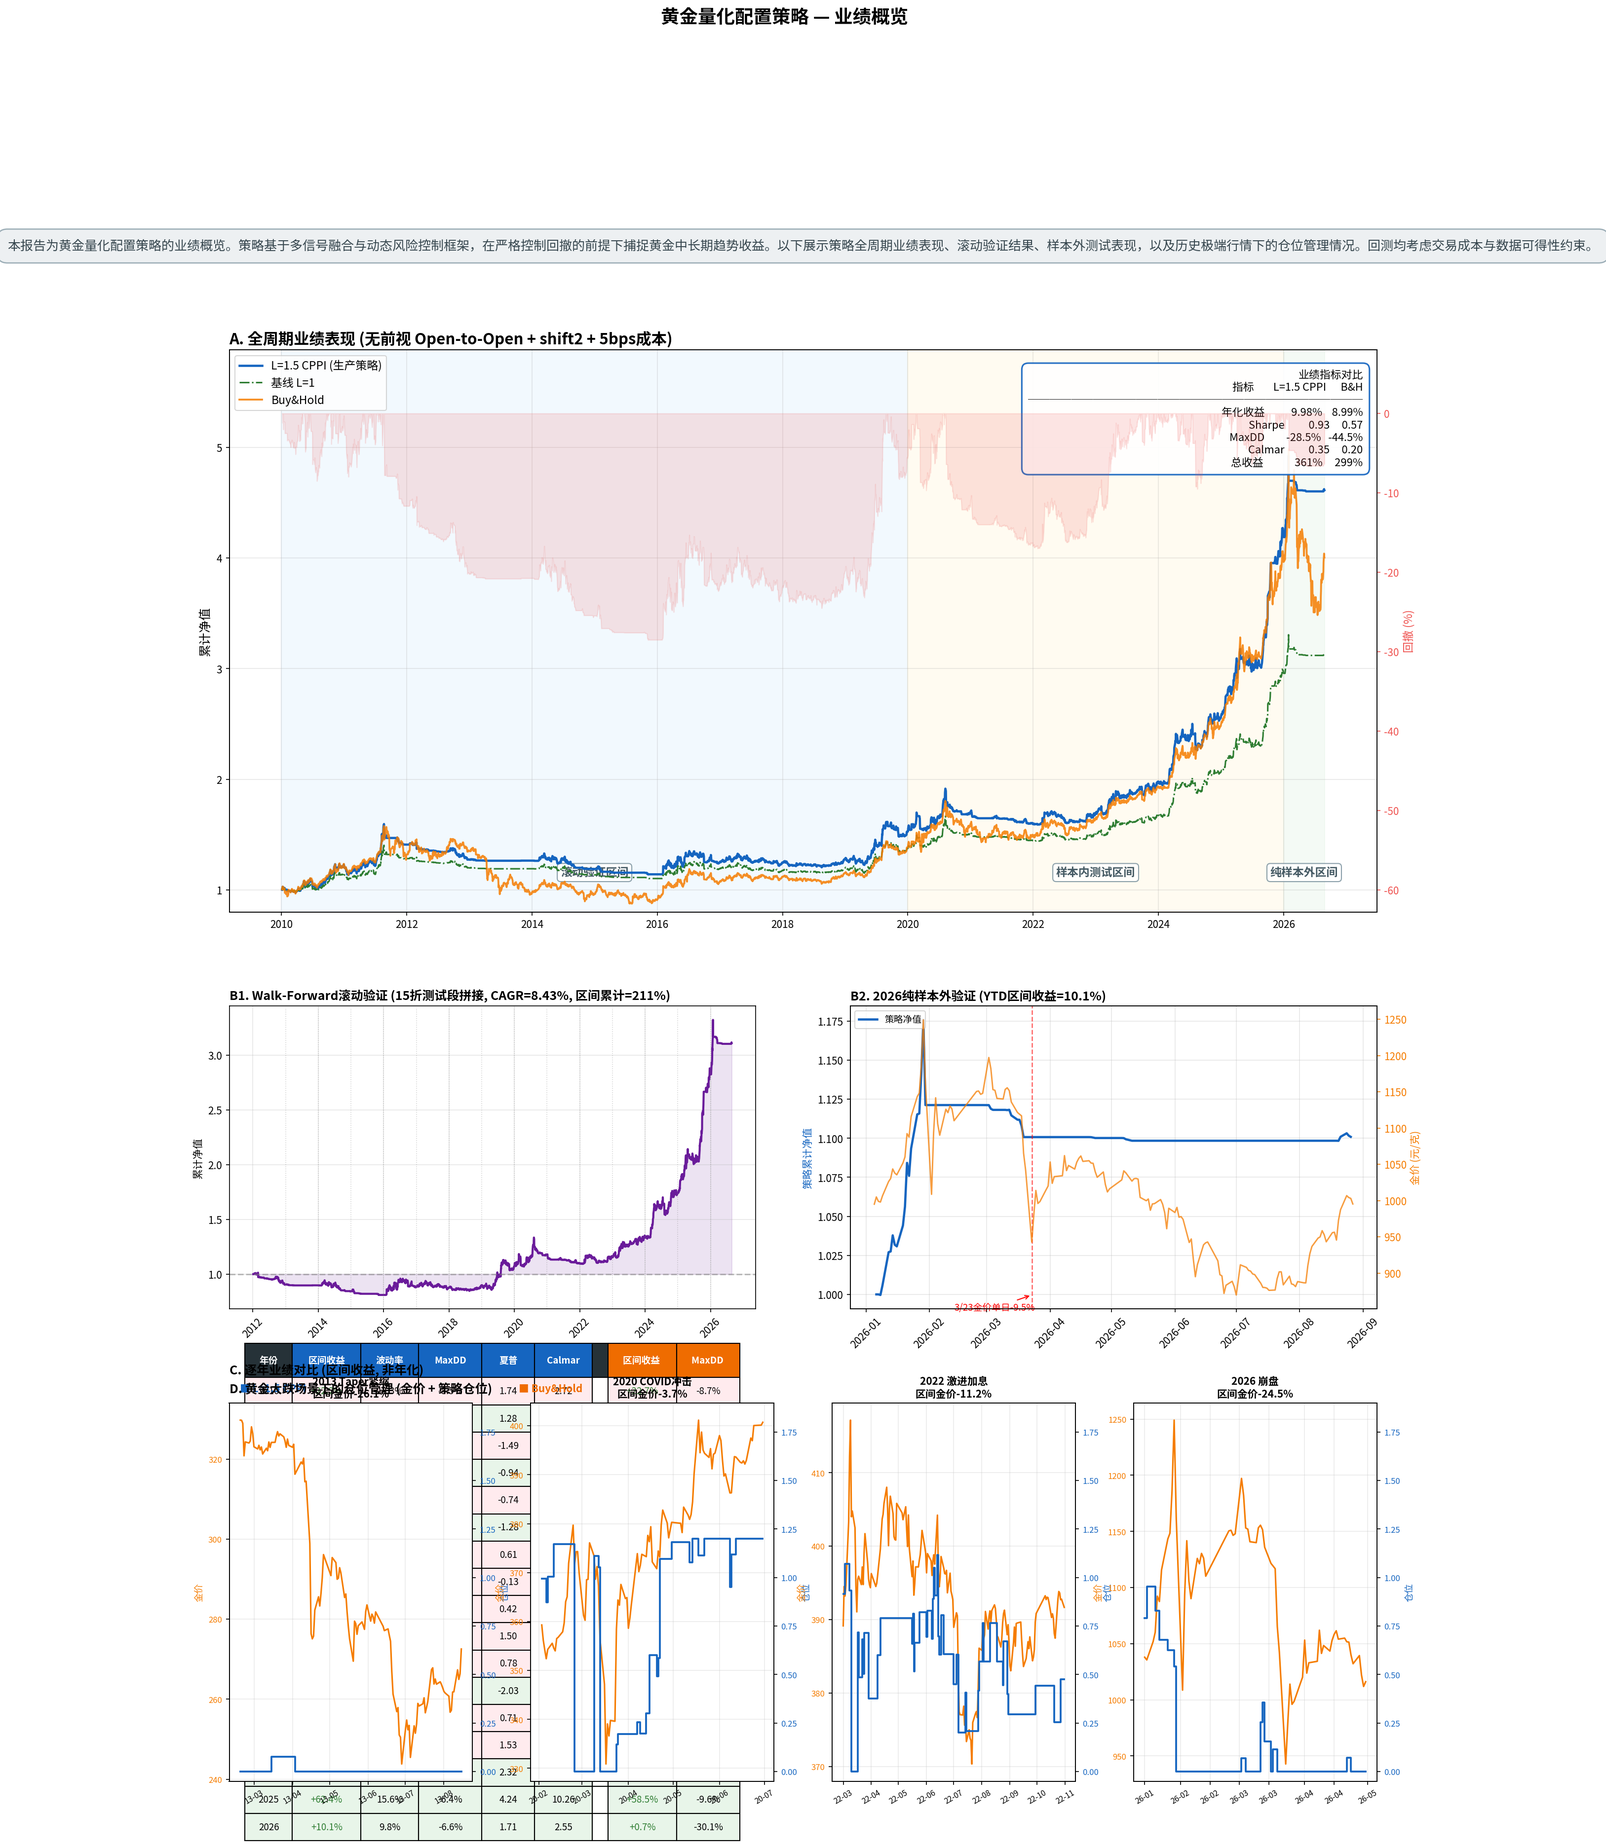
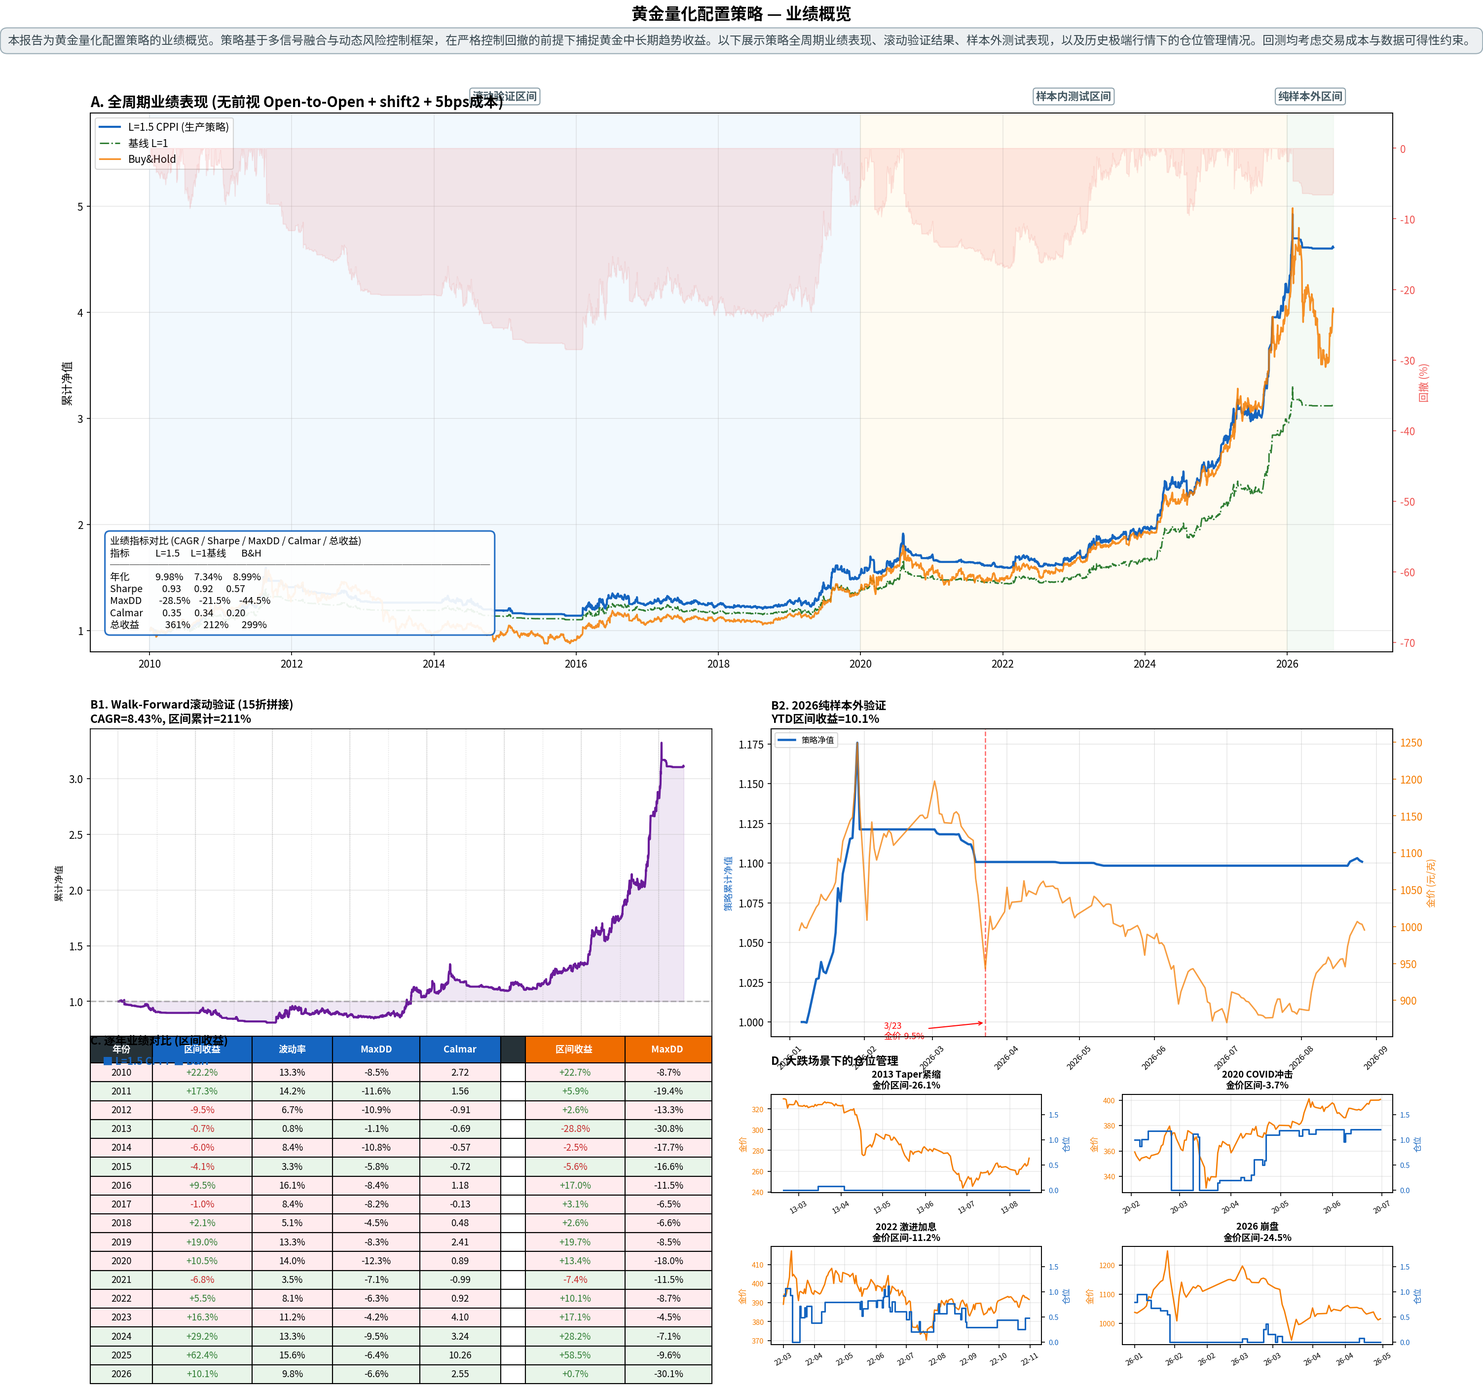
fix(gold): 重构综合介绍图布局 — 避免重叠 + 指标框下移 + 加入L=1基线指标
布局优化:
- 改用fig.add_axes显式定位, 避免gridspec重叠
- A图指标框下移至底部 (左下角), 不挡曲线峰值
- 加入L=1基线指标到对比框 (三列: L=1.5/L=1基线/B&H)
- D场景2x2用独立GridSpec避免嵌套错误
- 减少标题高度, 优化区块间距

文件: reports/gold/gold_strategy_overview.png, plot_gold_overview.py

diff --git a/scripts/cmf/plot_gold_overview.py b/scripts/cmf/plot_gold_overview.py
@@ -1,12 +1,12 @@
-"""scripts/cmf/plot_gold_overview.py — 黄金策略综合介绍图.
+"""scripts/cmf/plot_gold_overview.py — 黄金策略综合介绍图 (重构布局).
 
-布局:
-  顶部: 笼统文字说明 (不涉及策略细节)
-  A. 全周期净值 + 业绩指标框 + 测试区间底色切分
-  B1. Walk-Forward滚动验证 | B2. 2026纯OOS
-  C. 逐年区间收益对比表 | D. 大跌场景仓位 2×2
+布局 (简化、避免重叠):
+  H. 顶部说明文字 (横跨整行)
+  A. 全周期净值 + 业绩指标框 (下移, 不挡曲线)
+  B1+B2 水平排 (左WF / 右2026 OOS)
+  C. 逐年对比表 (窄, 让位给D)
+  D. 大跌场景2x2 (加大)
 
-数据来自缓存: reports/gold/overview_data.pkl
 输出: reports/gold/gold_strategy_overview.png
 """
 from __future__ import annotations
@@ -22,18 +22,17 @@ import matplotlib
 matplotlib.use("Agg")
 import matplotlib.pyplot as plt
 import matplotlib.dates as mdates
-from matplotlib.gridspec import GridSpec
+from matplotlib.gridspec import GridSpec, GridSpecFromSubplotSpec
 
 sys.path.insert(0, '/home/ll/Public/QuantNodes')
 
 CACHE = "reports/gold/overview_data.pkl"
 OUT = "reports/gold/gold_strategy_overview.png"
 
-# 区间切分定义 (A图底色)
 SEGMENTS = [
-    ("2010-01-01", "2019-12-31", "滚动验证区间", "#E3F2FD"),   # 浅蓝
-    ("2020-01-01", "2025-12-31", "样本内测试区间", "#FFF8E1"),  # 浅黄
-    ("2026-01-01", "2026-08-27", "纯样本外区间", "#E8F5E9"),    # 浅绿
+    ("2010-01-01", "2019-12-31", "滚动验证区间", "#E3F2FD"),
+    ("2020-01-01", "2025-12-31", "样本内测试区间", "#FFF8E1"),
+    ("2026-01-01", "2026-08-27", "纯样本外区间", "#E8F5E9"),
 ]
 
 HEADER_TEXT = (
@@ -71,177 +70,174 @@ def main():
     nav_bh = D["nav_bh"]
     m15 = D["metrics_15"]
     mbh = D["metrics_bh"]
+    mb = D["metrics_base"]
     ydf = D["yearly"]
 
-    fig = plt.figure(figsize=(20, 27))
-    gs = GridSpec(4, 2, figure=fig, height_ratios=[0.06, 2.6, 1.4, 1.75],
-                  hspace=0.30, wspace=0.18)
+    # 总体布局: 4行
+    #   row0: 顶部说明 (小高度)
+    #   row1: A图全周期净值 (主图, 大高度)
+    #   row2: B1 + B2 (左右)
+    #   row3: C表 + D场景 (左右, 高)
+    fig = plt.figure(figsize=(20, 26))
 
-    # ================= 顶部说明文字 =================
-    axH = fig.add_subplot(gs[0, :])
+    # ===== 顶部说明 =====
+    axH = fig.add_axes([0.06, 0.965, 0.88, 0.025])
     axH.axis('off')
-    axH.text(0.5, 0.75, HEADER_TEXT, transform=axH.transAxes,
-             fontsize=12.5, ha='center', va='center', wrap=True,
-             color='#37474F', linespacing=1.8,
-             bbox=dict(boxstyle='round,pad=0.8', facecolor='#ECEFF1',
-                       edgecolor='#90A4AE', alpha=0.9, linewidth=1.2))
+    axH.text(0.5, 0.5, HEADER_TEXT, transform=axH.transAxes,
+             fontsize=11.5, ha='center', va='center', wrap=True,
+             color='#37474F', linespacing=1.5,
+             bbox=dict(boxstyle='round,pad=0.6', facecolor='#ECEFF1',
+                       edgecolor='#90A4AE', alpha=0.9, linewidth=1))
 
-    # ================= A. 全周期净值 + 区间切分 =================
-    axA = fig.add_subplot(gs[1, :])
+    # ===== A. 全周期净值 =====
+    axA = fig.add_axes([0.06, 0.66, 0.88, 0.28])
+    axA.set_title('A. 全周期业绩表现 (无前视 Open-to-Open + shift2 + 5bps成本)',
+                 fontsize=14, fontweight='bold', loc='left')
 
-    # 区间底色
     for s, e, label, color in SEGMENTS:
         s_ts, e_ts = pd.Timestamp(s), pd.Timestamp(e)
         axA.axvspan(s_ts, e_ts, alpha=0.45, color=color, zorder=0)
         mid = s_ts + (e_ts - s_ts) / 2
-        axA.text(mid, 0.06, label, transform=axA.get_xaxis_transform(),
-                 fontsize=11, fontweight='bold', ha='center', va='bottom',
+        axA.text(mid, 1.02, label, transform=axA.get_xaxis_transform(),
+                 fontsize=10.5, fontweight='bold', ha='center', va='bottom',
                  color='#455A64',
-                 bbox=dict(boxstyle='round,pad=0.3', facecolor='white',
+                 bbox=dict(boxstyle='round,pad=0.25', facecolor='white',
                            edgecolor='#78909C', alpha=0.85, linewidth=1))
 
     axA.plot(nav_15.index, nav_15.values, label='L=1.5 CPPI (生产策略)',
-             linewidth=2.2, color='#1565C0', zorder=3)
+             linewidth=2.0, color='#1565C0', zorder=3)
     axA.plot(nav_base.index, nav_base.values, label='基线 L=1',
-             linewidth=1.5, color='#2E7D32', linestyle='-.', zorder=3)
+             linewidth=1.4, color='#2E7D32', linestyle='-.', zorder=3)
     axA.plot(nav_bh.index, nav_bh.values, label='Buy&Hold',
-             linewidth=1.8, color='#F57C00', alpha=0.85, zorder=3)
+             linewidth=1.6, color='#F57C00', alpha=0.85, zorder=3)
 
-    # 回撤阴影
+    # 指标框下移到底部, 不挡曲线峰值
+    box = "\n".join([
+        "业绩指标对比 (CAGR / Sharpe / MaxDD / Calmar / 总收益)",
+        f"{'指标':<9}{'L=1.5':>10}{'L=1基线':>10}{'B&H':>10}",
+        "─" * 39,
+        f"{'年化':<9}{pct(m15['cagr'], 2):>10}{pct(mb['cagr'], 2):>10}{pct(mbh['cagr'], 2):>10}",
+        f"{'Sharpe':<9}{m15['sharpe']:>10.2f}{mb['sharpe']:>10.2f}{mbh['sharpe']:>10.2f}",
+        f"{'MaxDD':<9}{pct(m15['mdd'], 1):>10}{pct(mb['mdd'], 1):>10}{pct(mbh['mdd'], 1):>10}",
+        f"{'Calmar':<9}{m15['calmar']:>10.2f}{mb['calmar']:>10.2f}{mbh['calmar']:>10.2f}",
+        f"{'总收益':<9}{pct(m15['total'], 0):>10}{pct(mb['total'], 0):>10}{pct(mbh['total'], 0):>10}",
+    ])
+    axA.text(0.015, 0.04, box, transform=axA.transAxes, fontsize=9.5,
+             verticalalignment='bottom', horizontalalignment='left',
+             bbox=dict(boxstyle='round,pad=0.5', facecolor='white',
+                       edgecolor='#1565C0', alpha=0.92, linewidth=1.5))
+
     ax1b = axA.twinx()
     dd15 = nav_15 / nav_15.cummax() - 1
-    ax1b.fill_between(dd15.index, dd15.values * 100, 0, alpha=0.15, color='#EF5350', zorder=1)
-    ax1b.set_ylabel('回撤 (%)', color='#EF5350', fontsize=11)
-    ax1b.set_ylim(dd15.min() * 100 * 2.2, 8)
+    ax1b.fill_between(dd15.index, dd15.values * 100, 0, alpha=0.12, color='#EF5350', zorder=1)
+    ax1b.set_ylabel('回撤 (%)', color='#EF5350', fontsize=10)
+    ax1b.set_ylim(dd15.min() * 100 * 2.5, 5)
     ax1b.tick_params(axis='y', colors='#EF5350')
-
-    axA.set_ylabel('累计净值', fontsize=12)
-    axA.set_title('A. 全周期业绩表现 (无前视 Open-to-Open + shift2 + 5bps成本)',
-                  fontsize=15, fontweight='bold', loc='left')
-    axA.legend(loc='upper left', fontsize=11)
+    axA.set_ylabel('累计净值', fontsize=11)
+    axA.legend(loc='upper left', fontsize=10)
     axA.grid(True, alpha=0.3)
     axA.set_ylim(0.8, max(nav_15.max(), nav_bh.max()) * 1.18)
 
-    # 指标标注框
-    box = ("\n".join([
-        "业绩指标对比",
-        f"{'指标':<9}{'L=1.5 CPPI':>11}{'B&H':>9}",
-        "─" * 31,
-        f"{'年化收益':<9}{pct(m15['cagr'], 2):>11}{pct(mbh['cagr'], 2):>9}",
-        f"{'Sharpe':<9}{m15['sharpe']:>11.2f}{mbh['sharpe']:>9.2f}",
-        f"{'MaxDD':<9}{pct(m15['mdd'], 1):>11}{pct(mbh['mdd'], 1):>9}",
-        f"{'Calmar':<9}{m15['calmar']:>11.2f}{mbh['calmar']:>9.2f}",
-        f"{'总收益':<9}{pct(m15['total'], 0):>11}{pct(mbh['total'], 0):>9}",
-    ]))
-    axA.text(0.988, 0.965, box, transform=axA.transAxes, fontsize=10.5,
-             verticalalignment='top', horizontalalignment='right',
-             bbox=dict(boxstyle='round,pad=0.6', facecolor='white',
-                       edgecolor='#1565C0', alpha=0.92, linewidth=1.5))
+    # ===== B1 (左) + B2 (右) =====
+    axB1 = fig.add_axes([0.06, 0.46, 0.42, 0.16])
+    axB2 = fig.add_axes([0.52, 0.46, 0.42, 0.16])
 
-    # ================= B1. Walk-Forward =================
-    axB1 = fig.add_subplot(gs[2, 0])
+    # B1: WF拼接
     wf = D["wf_nav"]
     axB1.plot(wf.index, wf.values, linewidth=2, color='#6A1B9A')
-    axB1.fill_between(wf.index, 1.0, wf.values, alpha=0.12, color='#6A1B9A')
+    axB1.fill_between(wf.index, 1.0, wf.values, alpha=0.10, color='#6A1B9A')
     axB1.axhline(y=1.0, color='gray', linestyle='--', alpha=0.5)
     for year in range(2013, 2027):
         try:
-            boundary = pd.Timestamp(f"{year}-01-01")
-            if wf.index[0] <= boundary <= wf.index[-1]:
-                axB1.axvline(x=boundary, color='gray', linestyle=':', alpha=0.35, linewidth=0.8)
+            b = pd.Timestamp(f"{year}-01-01")
+            if wf.index[0] <= b <= wf.index[-1]:
+                axB1.axvline(x=b, color='gray', linestyle=':', alpha=0.3, linewidth=0.7)
         except Exception:
             pass
     wf_ret = wf.iloc[-1] / wf.iloc[0] - 1
     n_y = len(wf) / 252
     wf_cagr = (wf.iloc[-1]) ** (1 / n_y) - 1
-    axB1.set_title(f'B1. Walk-Forward滚动验证 (15折测试段拼接, CAGR={pct(wf_cagr, 2)}, 区间累计={pct(wf_ret, 0)})',
-                   fontsize=12, fontweight='bold', loc='left')
-    axB1.set_ylabel('累计净值')
+    axB1.set_title(f'B1. Walk-Forward滚动验证 (15折拼接)\nCAGR={pct(wf_cagr, 2)}, 区间累计={pct(wf_ret, 0)}',
+                   fontsize=11, fontweight='bold', loc='left')
+    axB1.set_ylabel('累计净值', fontsize=9)
     axB1.grid(True, alpha=0.3)
     axB1.xaxis.set_major_formatter(mdates.DateFormatter('%Y'))
     axB1.xaxis.set_major_locator(mdates.YearLocator(2))
     for lbl in axB1.get_xticklabels():
-        lbl.set_rotation(45)
+        lbl.set_rotation(45); lbl.set_fontsize(8)
 
-    # ================= B2. 2026纯OOS =================
-    axB2 = fig.add_subplot(gs[2, 1])
+    # B2: 2026纯OOS
     nav26 = D["nav26"]
     c26 = D["close26"]
     axB2.plot(nav26.index, nav26.values, color='#1565C0', linewidth=2.2, label='策略净值')
     ax2b = axB2.twinx()
-    ax2b.plot(c26.index, c26.values, color='#F57C00', linewidth=1.4, alpha=0.75, label='金价(右轴)')
-    ax2b.set_ylabel('金价 (元/克)', color='#F57C00', fontsize=10)
+    ax2b.plot(c26.index, c26.values, color='#F57C00', linewidth=1.4, alpha=0.75, label='金价')
+    ax2b.set_ylabel('金价 (元/克)', color='#F57C00', fontsize=9)
     ax2b.tick_params(axis='y', colors='#F57C00')
     oos_ret = nav26.iloc[-1] / nav26.iloc[0] - 1
     crash_day = pd.Timestamp("2026-03-23")
     if crash_day in c26.index:
         axB2.axvline(x=crash_day, color='red', linestyle='--', alpha=0.6, linewidth=1.2)
-        axB2.annotate('3/23金价单日-9.5%', xy=(crash_day, nav26.min()),
-                      xytext=(crash_day - pd.Timedelta(days=38), nav26.min() * 0.99),
-                      fontsize=9, color='red',
+        axB2.annotate('3/23\n金价-9.5%', xy=(crash_day, nav26.min()),
+                      xytext=(crash_day - pd.Timedelta(days=42), nav26.min() * 0.99),
+                      fontsize=8.5, color='red',
                       arrowprops=dict(arrowstyle='->', color='red', lw=1))
-    axB2.set_title(f'B2. 2026纯样本外验证 (YTD区间收益={pct(oos_ret, 1)})',
-                   fontsize=12, fontweight='bold', loc='left')
-    axB2.set_ylabel('策略累计净值', color='#1565C0', fontsize=10)
-    axB2.legend(loc='upper left', fontsize=9)
+    axB2.set_title(f'B2. 2026纯样本外验证\nYTD区间收益={pct(oos_ret, 1)}',
+                   fontsize=11, fontweight='bold', loc='left')
+    axB2.set_ylabel('策略累计净值', color='#1565C0', fontsize=9)
+    axB2.legend(loc='upper left', fontsize=8)
     axB2.grid(True, alpha=0.3)
     axB2.xaxis.set_major_formatter(mdates.DateFormatter('%Y-%m'))
     for lbl in axB2.get_xticklabels():
-        lbl.set_rotation(45)
+        lbl.set_rotation(45); lbl.set_fontsize(8)
 
-    # ================= C. 逐年区间收益对比表 (美化) =================
-    axC = fig.add_subplot(gs[3, 0])
+    # ===== C. 逐年对比表 =====
+    axC = fig.add_axes([0.06, 0.30, 0.42, 0.14])
     axC.axis('off')
-
-    cols = ['年份', '区间收益', '波动率', 'MaxDD', '夏普', 'Calmar', '',
+    cols = ['年份', '区间收益', '波动率', 'MaxDD', 'Calmar', '',
             '区间收益 ', 'MaxDD ']
     cell_rows = []
     row_colors = []
     for year, r in ydf.iterrows():
-        l15_ret = r['L15_ret']
-        bh_ret = r['BH_ret']
+        lr = r['L15_ret']; br = r['BH_ret']
         cell_rows.append([
             str(year),
-            pct(l15_ret, 1, sign=True) if pd.notna(l15_ret) else '-',
+            pct(lr, 1, sign=True) if pd.notna(lr) else '-',
             pct(r['L15_vol'], 1) if pd.notna(r['L15_vol']) else '-',
             pct(r['L15_mdd'], 1) if pd.notna(r['L15_mdd']) else '-',
-            f"{r['L15_sharpe']:.2f}" if pd.notna(r['L15_sharpe']) else '-',
             f"{r['L15_calmar']:.2f}" if pd.notna(r['L15_calmar']) else '-',
             '',
-            pct(bh_ret, 1, sign=True) if pd.notna(bh_ret) else '-',
+            pct(br, 1, sign=True) if pd.notna(br) else '-',
             pct(r['BH_mdd'], 1) if pd.notna(r['BH_mdd']) else '-',
         ])
-        if pd.notna(l15_ret) and pd.notna(bh_ret):
-            row_colors.append('#E8F5E9' if l15_ret >= bh_ret else '#FFEBEE')
+        if pd.notna(lr) and pd.notna(br):
+            row_colors.append('#E8F5E9' if lr >= br else '#FFEBEE')
         else:
             row_colors.append('white')
 
     tbl = axC.table(cellText=cell_rows, colLabels=cols,
                     cellLoc='center', loc='center',
-                    colWidths=[0.09, 0.13, 0.11, 0.12, 0.10, 0.11, 0.03, 0.13, 0.12])
+                    colWidths=[0.10, 0.16, 0.13, 0.14, 0.13, 0.04, 0.16, 0.14])
     tbl.auto_set_font_size(False)
     tbl.set_fontsize(9)
-    tbl.scale(1, 1.08)
-    # 表头
+    tbl.scale(1, 1.06)
     for j in range(len(cols)):
         cell = tbl[0, j]
         cell.set_facecolor('#263238')
         cell.set_text_props(color='white', fontweight='bold', fontsize=9)
-        cell.set_height(0.09)
-    # 左组表头蓝, 右组橙
-    for j in [1, 2, 3, 4, 5]:
+        cell.set_height(0.10)
+    for j in [1, 2, 3, 4]:
         tbl[0, j].set_facecolor('#1565C0')
-    for j in [7, 8]:
+    for j in [6, 7]:
         tbl[0, j].set_facecolor('#EF6C00')
-    # 数据行: 斑马纹+胜负色, 收益正绿负红字
     for i, r in enumerate(cell_rows, start=1):
         base = row_colors[i-1]
         for j in range(len(cols)):
             cell = tbl[i, j]
-            cell.set_facecolor(base if j != 6 else 'white')
-            cell.set_height(0.072)
-            if j in (1, 7) and i <= len(cell_rows):
-                txt = r[j] if j < len(r) else ''
+            cell.set_facecolor(base if j != 5 else 'white')
+            cell.set_height(0.07)
+            if j in (1, 6) and i <= len(cell_rows):
+                txt = cell_rows[i-1][j]
                 if txt and txt != '-' and '%' in txt:
                     if '+' in txt:
                         cell.set_text_props(color='#2E7D32', fontsize=9)
@@ -251,46 +247,44 @@ def main():
                     cell.set_text_props(fontsize=9)
             else:
                 cell.set_text_props(fontsize=9)
-    # 区分线
-    axC.text(0.02, 1.03, '■ L=1.5 CPPI', transform=axC.transAxes,
-             fontsize=10, color='#1565C0', fontweight='bold')
-    axC.text(0.55, 1.03, '■ Buy&Hold', transform=axC.transAxes,
-             fontsize=10, color='#EF6C00', fontweight='bold')
-    axC.set_title('C. 逐年业绩对比 (区间收益, 非年化)',
-                  fontsize=12, fontweight='bold', loc='left', pad=28)
+    axC.text(0.02, 1.04, '■ L=1.5 CPPI  ■ B&H',
+             transform=axC.transAxes, fontsize=10,
+             color='#1565C0', fontweight='bold')
+    axC.set_title('C. 逐年业绩对比 (区间收益)',
+                  fontsize=11, fontweight='bold', loc='left', pad=30)
 
-    # ================= D. 大跌场景仓位 2×2 → 竖排4图 =================
-    axD = fig.add_subplot(gs[3, :])
-    axD.axis('off')
-    axD.set_title('D. 黄金大跌场景下的仓位管理 (金价 + 策略仓位)', fontsize=12,
-                  fontweight='bold', loc='left', pad=10)
+    # ===== D. 大跌场景 (4图, 2×2) =====
+    axD_title = fig.add_axes([0.52, 0.30, 0.42, 0.14])
+    axD_title.axis('off')
+    axD_title.set_title('D. 大跌场景下的仓位管理', fontsize=11,
+                       fontweight='bold', loc='left', pad=10)
 
-    gs_scen = gs[3, :].subgridspec(1, 4, wspace=0.24)
+    inner_gs = GridSpec(2, 2, figure=fig, left=0.52, right=0.94, top=0.43, bottom=0.30,
+                        wspace=0.30, hspace=0.55)
     for i, (name, sdata) in enumerate(D["scenarios"].items()):
-        ax = fig.add_subplot(gs_scen[0, i])
+        ax = fig.add_subplot(inner_gs[i // 2, i % 2])
         c = sdata["close"]
         p = sdata["pos"]
-        ax.plot(c.index, c.values, color='#F57C00', linewidth=1.5, label='金价(左轴)')
-        ax.set_ylabel('金价', color='#F57C00', fontsize=9)
-        ax.tick_params(axis='y', labelcolor='#F57C00', labelsize=8)
+        ax.plot(c.index, c.values, color='#F57C00', linewidth=1.3, label='金价(左轴)')
+        ax.set_ylabel('金价', color='#F57C00', fontsize=8)
+        ax.tick_params(axis='y', labelcolor='#F57C00', labelsize=7)
         ax2 = ax.twinx()
-        ax2.step(p.index, p.values, where='post', color='#1565C0', linewidth=1.8, label='仓位(右轴)')
-        ax2.set_ylabel('仓位', color='#1565C0', fontsize=9)
+        ax2.step(p.index, p.values, where='post', color='#1565C0', linewidth=1.5, label='仓位')
+        ax2.set_ylabel('仓位', color='#1565C0', fontsize=8)
         ax2.set_ylim(-0.05, 1.9)
-        ax2.tick_params(axis='y', labelcolor='#1565C0', labelsize=8)
+        ax2.tick_params(axis='y', labelcolor='#1565C0', labelsize=7)
         if len(c) > 2:
             peak_idx = c.values.argmax()
             trough_after = c.values[peak_idx:].min()
             drop = (trough_after / c.values[peak_idx] - 1) * 100
-            ax.set_title(f'{name}\n区间金价{drop:+.1f}%', fontsize=10, fontweight='bold')
+            ax.set_title(f'{name}\n金价区间{drop:+.1f}%', fontsize=9, fontweight='bold')
         ax.grid(True, alpha=0.25)
         ax.xaxis.set_major_formatter(mdates.DateFormatter('%y-%m'))
         for lbl in ax.get_xticklabels():
-            lbl.set_rotation(30)
-            lbl.set_fontsize(7.5)
+            lbl.set_rotation(30); lbl.set_fontsize(7)
 
     fig.suptitle('黄金量化配置策略 — 业绩概览',
-                 fontsize=18, fontweight='bold', y=0.998)
+                 fontsize=16, fontweight='bold', y=0.995)
 
     plt.savefig(OUT, dpi=150, bbox_inches='tight', facecolor='white')
     print(f"✓ 综合介绍图已保存: {OUT}")
